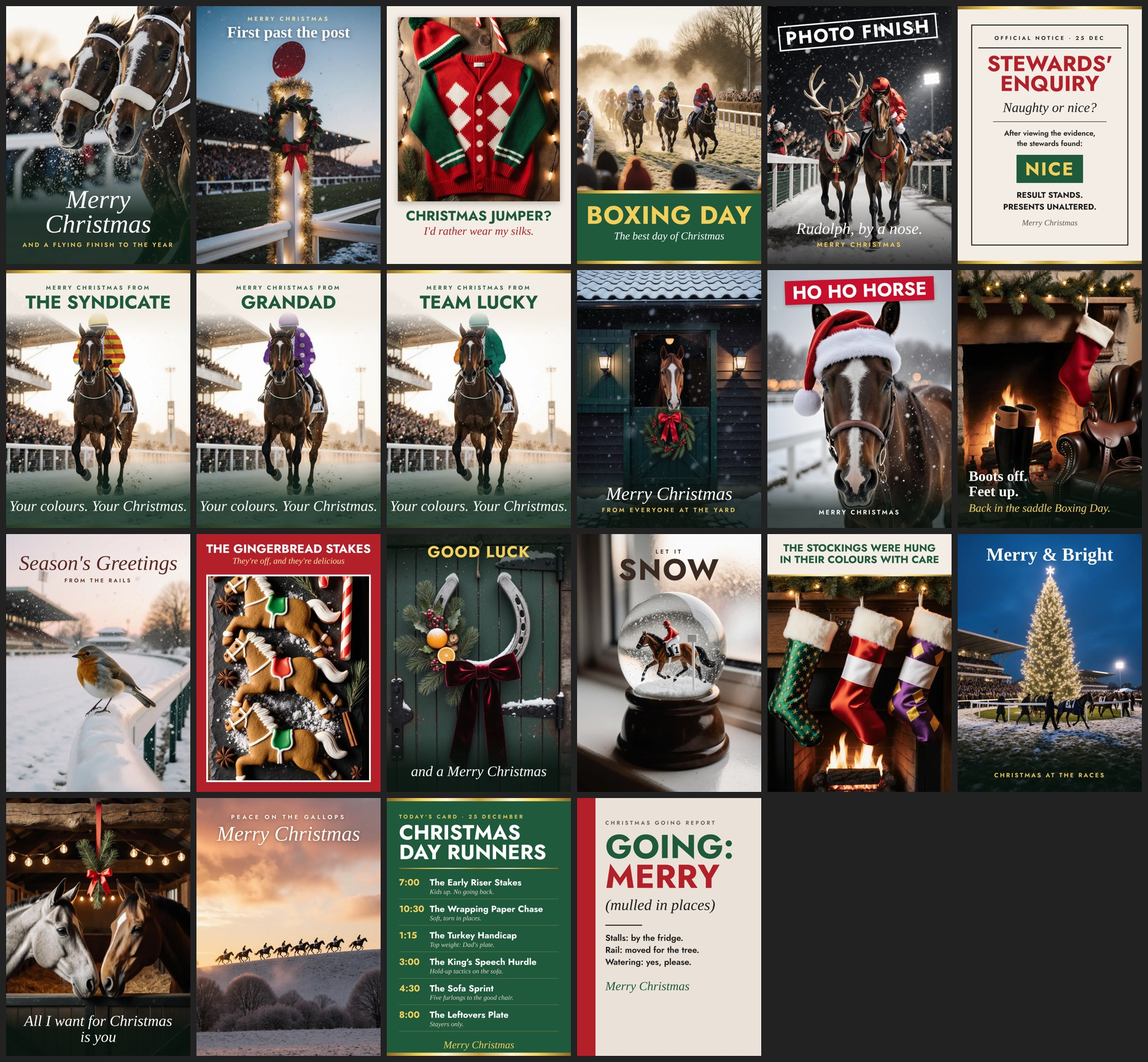
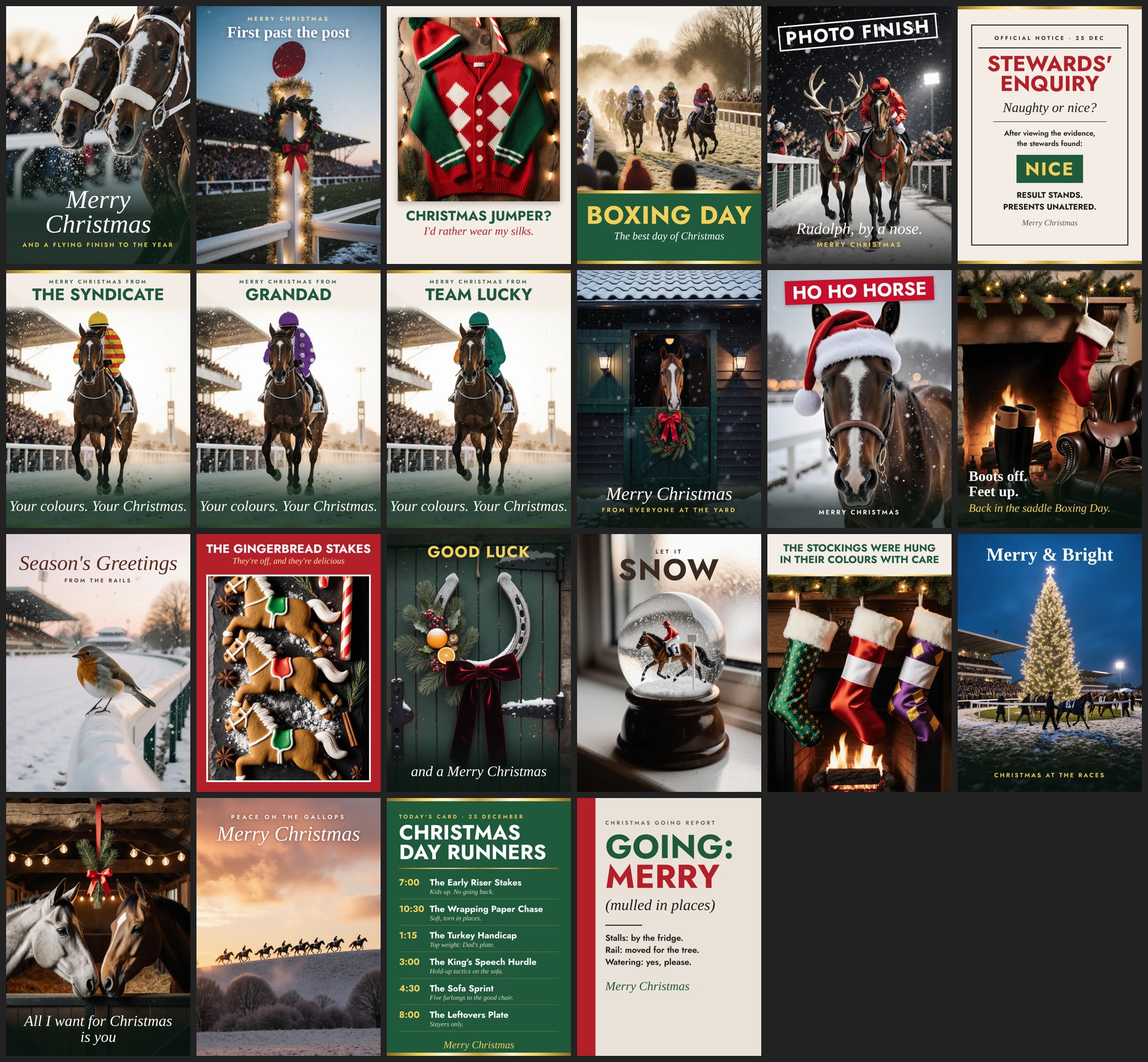
Christmas card 7: title band no longer covers the rider's cap
Claude-Session: https://claude.ai/code/session_012o9aG5DgvmXWZHsMc4KE4d

Changed region(s): [[0.0, 0.2497, 0.3102, 0.3121], [0.3102, 0.2497, 0.4652, 0.3121]]

diff --git a/batch/2026-11-24/christmas-cards/cards.js b/batch/2026-11-24/christmas-cards/cards.js
@@ -48,9 +48,9 @@ const cards = {
 };
 for (const k of ['a', 'b', 'c']) cards[`7-your-own-silks-example-${k}`] = `<div class="bg" style="background-image:url(${img(`silks-${k}.png`)})"></div>
 <div style="position:absolute;left:0;right:0;top:0;height:26px;background:${metal}"></div><div style="position:absolute;left:0;right:0;bottom:0;height:26px;background:${metal}"></div>
-<div style="position:absolute;left:0;right:0;top:26px;height:520px;background:linear-gradient(rgba(243,237,229,.96) 62%,transparent)"></div><div style="position:absolute;left:0;right:0;top:110px;text-align:center;color:#1F5A3D">
-<div style="font-weight:600;letter-spacing:14px;font-size:46px">MERRY CHRISTMAS FROM</div>
-<div style="font-weight:700;font-size:150px;line-height:1.05;margin-top:6px">${{ a: 'THE SYNDICATE', b: 'GRANDAD', c: 'TEAM LUCKY' }[k]}</div></div>
+<div style="position:absolute;left:0;right:0;top:26px;height:330px;background:linear-gradient(rgba(243,237,229,.97) 80%,transparent)"></div><div style="position:absolute;left:0;right:0;top:64px;text-align:center;color:#1F5A3D">
+<div style="font-weight:600;letter-spacing:14px;font-size:42px">MERRY CHRISTMAS FROM</div>
+<div style="font-weight:700;font-size:136px;line-height:1.05;margin-top:2px">${{ a: 'THE SYNDICATE', b: 'GRANDAD', c: 'TEAM LUCKY' }[k]}</div></div>
 <div style="position:absolute;left:0;right:0;bottom:0;height:560px;background:linear-gradient(transparent,rgba(20,50,35,.85) 60%)"></div>
 <div style="position:absolute;left:0;right:0;bottom:110px;text-align:center;color:#fff">
 <div class="serif" style="font-style:italic;font-size:120px">Your colours. Your Christmas.</div></div>`;
